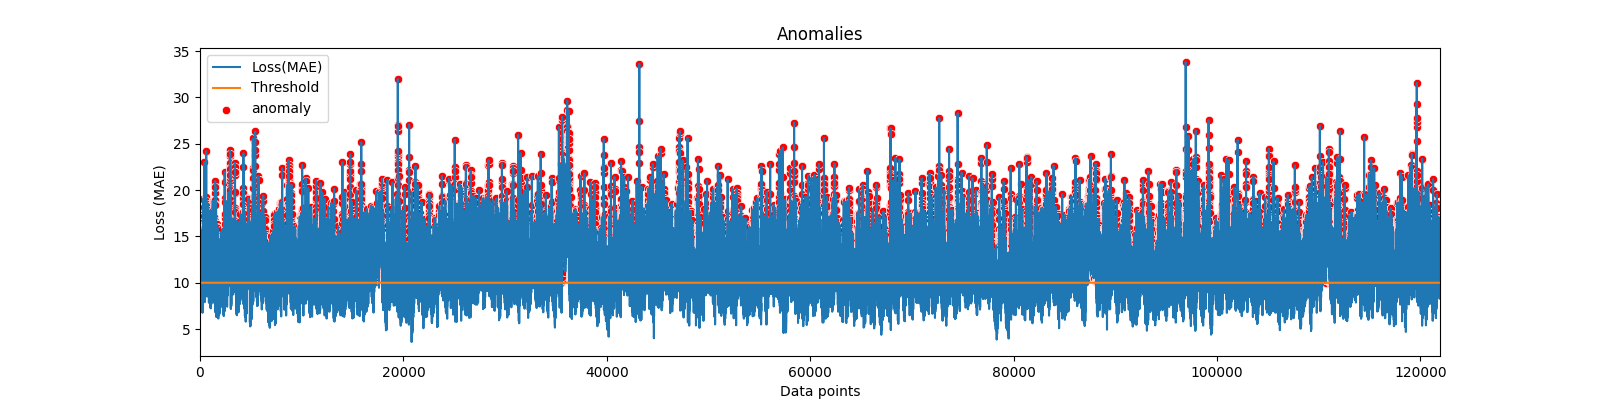
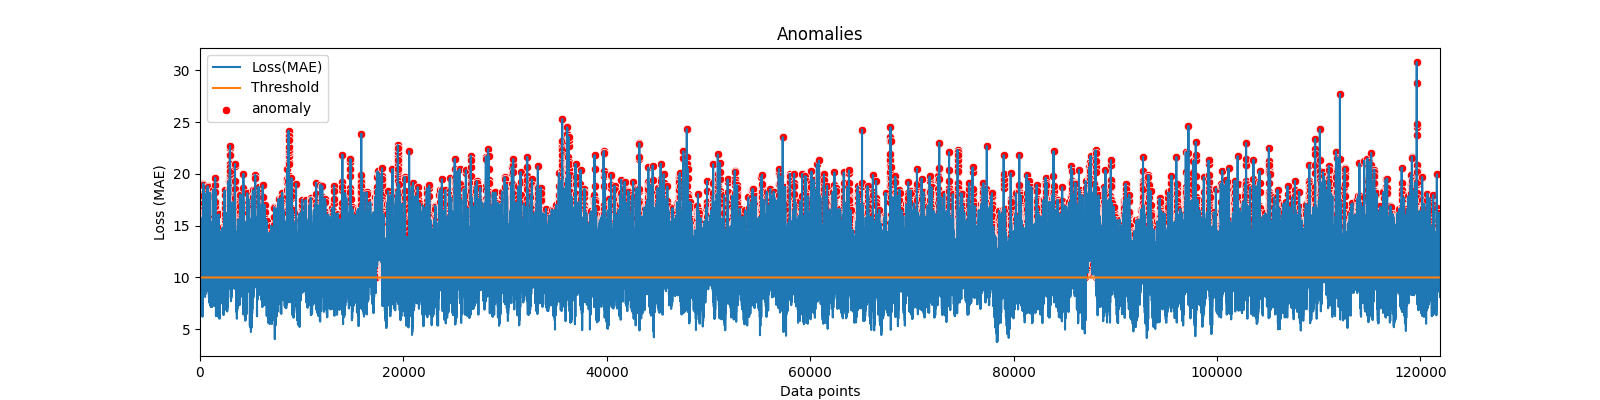
Modified adversarial attack loss function
일관성을 위해 RMSE 에서 MAE 로 변경

diff --git a/src/Microsoft_LSTM_test.py b/src/Microsoft_LSTM_test.py
@@ -6,7 +6,7 @@ import seaborn as sns # used for plot interactive graph.
 from sklearn.preprocessing import MinMaxScaler
 from sklearn.metrics import mean_absolute_error, confusion_matrix, accuracy_score, f1_score
 
-from utils import microsoft_ml_data, microsoft_ws_data, fgsm, rmse, bim
+from utils import microsoft_ml_data, microsoft_ws_data, fgsm, mae, bim
 
 ## for Deep-learing:
 import tensorflow.keras.backend as K
@@ -52,13 +52,13 @@ def compare_result(x,xhat,name=''):
 	print(confusion_matrix(scored_train['True'], scored_train['Anomaly']))
 
 if os.path.isfile(model_path):
-	model = load_model(model_path, custom_objects={'rmse': rmse})
+	model = load_model(model_path, custom_objects={'mae': mae})
 
 	# make adversarial example
-	adv_X_fgsm, _ = fgsm(X =test_X, Y=test_X, model=model ,loss_fn = rmse , epsilon=0.2)
+	adv_X_fgsm, _ = fgsm(X =test_X, Y=test_X, model=model ,loss_fn = mae , epsilon=0.2)
 
 	# make bim adversarial example
-	adv_X_bim, _ = bim(X =test_X, Y=test_X, model=model ,loss_fn = rmse , epsilon=0.2, alpha=0.001, I=200)
+	adv_X_bim, _ = bim(X =test_X, Y=test_X, model=model ,loss_fn = mae , epsilon=0.2, alpha=0.001, I=200)
 
 	# make a adv prediction
 	adv_Xhat_fgsm = model.predict(adv_X_fgsm)

diff --git a/src/utils.py b/src/utils.py
@@ -11,6 +11,9 @@ import tensorflow.keras.backend as K
 def rmse(y_true, y_pred):
     return K.sqrt(K.mean(K.square(y_pred - y_true), axis=-1))
 
+def mae(y_true, y_pred):
+    return K.mean(K.abs(y_pred - y_true), axis=-1)
+
 def power_data():
     df = pd.read_csv('../Dataset/household_power_consumption.txt', sep=';',
                  parse_dates={'dt' : ['Date', 'Time']}, infer_datetime_format=True,
